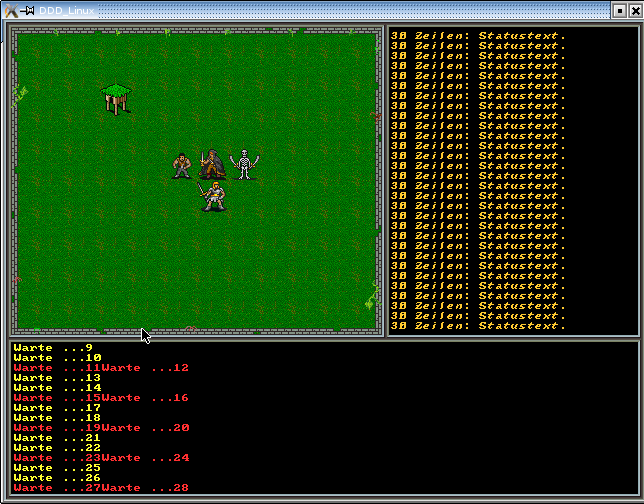
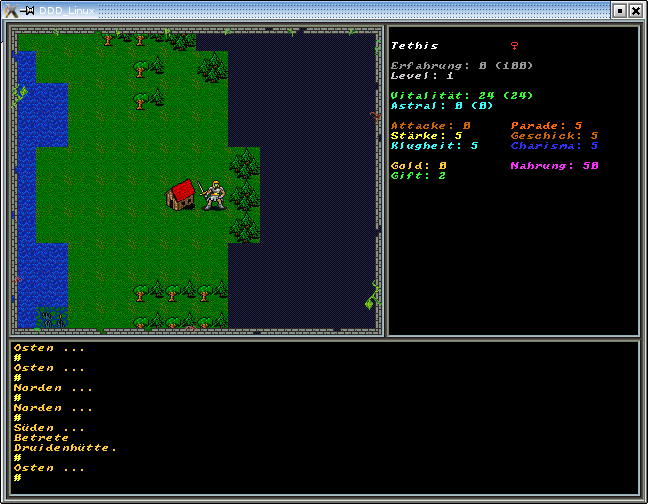
Fog of War - Function debugged, Screenshots updated.

diff --git a/src/game.cpp b/src/game.cpp
@@ -228,7 +228,8 @@ void game::run()
         if(!DDD_Hero->get_Status(Hero::Hero_is_Cheating))
         {
             draw_World_Fog();
-        }
+
+        } // if(is_Cheating)
 
         draw_Frame();
 
@@ -829,14 +830,17 @@ void game::draw_World_Fog()
 
     int start_x = Play_x - (DDD_Datafile->find_Index("[INI_Playfieldcolumns]").Number / 2);
     int start_y = Play_y - (DDD_Datafile->find_Index("[INI_Playfieldrows]").Number / 2);
+    DDD_Map->convert_WorldmapCoords(start_x, start_y);
+
     int end_x = start_x + (DDD_Datafile->find_Index("[INI_Playfieldcolumns]").Number);
     int end_y = start_y + (DDD_Datafile->find_Index("[INI_Playfieldrows]").Number);
+    DDD_Map->convert_WorldmapCoords(end_x, end_y);
 
-    for(int y = 0; y <= end_y; ++y)
+    for(int y = 0; y <= DDD_Datafile->find_Index("[INI_Playfieldrows]").Number; ++y)
     {
         std::string Line;
 
-        for(int x = 0; x <= end_x; ++x)
+        for(int x = 0; x <= DDD_Datafile->find_Index("[INI_Playfieldcolumns]").Number; ++x)
         {
             Line += DDD_Map->get_Tilecheck(Mapinterface::Worldmaptile, start_x + x, start_y + y).Rawtile;
 
@@ -881,139 +885,62 @@ void game::check_Line(std::vector<std::string> &Map, int start_x, int start_y, i
 
     bool draw = false;
 
-    int x = start_x;
-    int xe = end_x;
+    //void line(int x0, int y0, int x1, int y1)
 
-    int y = start_y;
-    int ye = end_y;
+    int dx =  abs(end_x - start_x), sx = start_x < end_x ? 1 : -1;
+    int dy = -abs(end_y - start_y), sy = start_y < end_y ? 1 : -1;
+    int err = dx + dy, e2; /* error value e_xy */
 
-    int dx = end_x - start_x;
-    int dy = end_y - start_y;
+    while(true)
+    {  /* loop */
+        //setPixel( start_x, start_y );
 
-    int xstep = 1;
-    int ystep = 1;
-
-    if(dx < 0)
-    {
-        dx = -dx;
-        xstep = -1;
-
-    }
-
-    if(dy < 0)
-    {
-        dy = -dy;
-        ystep = -1;
-
-    }
-
-    int a = 2*dx;
-    int b = 2*dy;
-
-    if(dy <= dx)
-    {
-        int f = -dx;
-
-        while(x != xe)
+        if(!draw)
         {
-            // plot(x, y)
-            if(!draw)
+            bool shadow = DDD_Map->convert_Rawtile(Map.at(start_y).at(start_x)).eclipse;
+            if(shadow)
             {
-                bool shadow = DDD_Map->convert_Rawtile(Map.at(y).at(x)).eclipse;
-                if(shadow)
-                {
-                    draw = true;
+                draw = true;
 
-                } // if (shadow)
+            } // if (shadow)
 
-            }
-            else
-            {
-                Fogtile.Column = x;
-                Fogtile.Row = y;
-                if( (Fogtile.Column >= 0) && (Fogtile.Column <= (DDD_Datafile->find_Index("[INI_Playfieldcolumns]").Number-1)) &&
-                    (Fogtile.Row >= 0) && (Fogtile.Row <= (DDD_Datafile->find_Index("[INI_Playfieldrows]").Number-1))
-                  )
-                {
-                    DDD_Output->render_Tile(Fogtile);
-
-                }
-
-            } // if(draw == false);
-
-            f = f + b;
-            if(f > 0)
-            {
-                y = y + ystep;
-                f = f - a;
-
-            } // if f > 0
-
-            x = x + xstep;
-
-        } // while x<xe
-
-    } // if dy <= dx
-    else
-    {
-        int f = -dy;
-
-        while(y != ye)
+        }
+        else
         {
-            // plot(x,y)
-            if(!draw)
+            Fogtile.Column = start_x;
+            Fogtile.Row = start_y;
+            if( (Fogtile.Column >= 0) && (Fogtile.Column <= (DDD_Datafile->find_Index("[INI_Playfieldcolumns]").Number-1)) &&
+                (Fogtile.Row >= 0) && (Fogtile.Row <= (DDD_Datafile->find_Index("[INI_Playfieldrows]").Number-1))
+              )
             {
-                bool shadow = DDD_Map->convert_Rawtile(Map.at(y).at(x)).eclipse;
-                if(shadow)
-                {
-                    draw = true;
+                DDD_Output->render_Tile(Fogtile);
 
-                } // if (shadow)
+            } // if(Fogtile)
 
-            }
-            else
-            {
-                Fogtile.Column = x;
-                Fogtile.Row = y;
-                if( (Fogtile.Column >= 0) && (Fogtile.Column <= (DDD_Datafile->find_Index("[INI_Playfieldcolumns]").Number-1)) &&
-                    (Fogtile.Row >= 0) && (Fogtile.Row <= (DDD_Datafile->find_Index("[INI_Playfieldrows]").Number-1))
-                  )
-                {
-                    DDD_Output->render_Tile(Fogtile);
+        } // if(!draw)
 
-                }
-
-            } // if(draw == false);
-
-            f = f + a;
-            if(f > 0)
-            {
-                x = x + xstep;
-                f = f - b;
-
-            } // if f > 0
-
-            y = y + ystep;
-
-        } // while y < ye
-
-    } // if dy <= dx
-
-    // plot(x, y)
-
-    if(draw)
-    {
-        Fogtile.Column = x;
-        Fogtile.Row = y;
-        if( (Fogtile.Column >= 0) && (Fogtile.Column <= (DDD_Datafile->find_Index("[INI_Playfieldcolumns]").Number-1)) &&
-            (Fogtile.Row >= 0) && (Fogtile.Row <= (DDD_Datafile->find_Index("[INI_Playfieldrows]").Number-1))
-          )
+        if (start_x == end_x && start_y == end_y)
         {
-            DDD_Output->render_Tile(Fogtile);
+            break;
 
         }
 
-    } // if(draw == false);
+        e2 = 2*err;
+        if (e2 > dy)
+        {
+            err += dy;
+            start_x += sx;
+
+        } /* e_xy+e_x > 0 */
+
+        if (e2 < dx)
+        {
+            err += dx;
+            start_y += sy;
+
+        } /* e_xy+e_y < 0 */
+
+    } // while(true)
 
 } // check_line
 

diff --git a/README.md b/README.md
@@ -41,3 +41,9 @@ http://wiki.allegro.cc
 
 Bass
 http://www.un4seen.com/
+
+## Screenshots:
+
+![Screenshot Alpha 1 German] (gfx/Screenshot_alpha_1.png) ![Screenshot Alpha 1 English] (gfx/Screenshot_alpha_2.png)
+
+![Screenshot Alpha 2 German] (gfx/Screenshot_alpha_3.png) ![Screenshot Alpha 2 English] (gfx/Screenshot_alpha_4.png)
